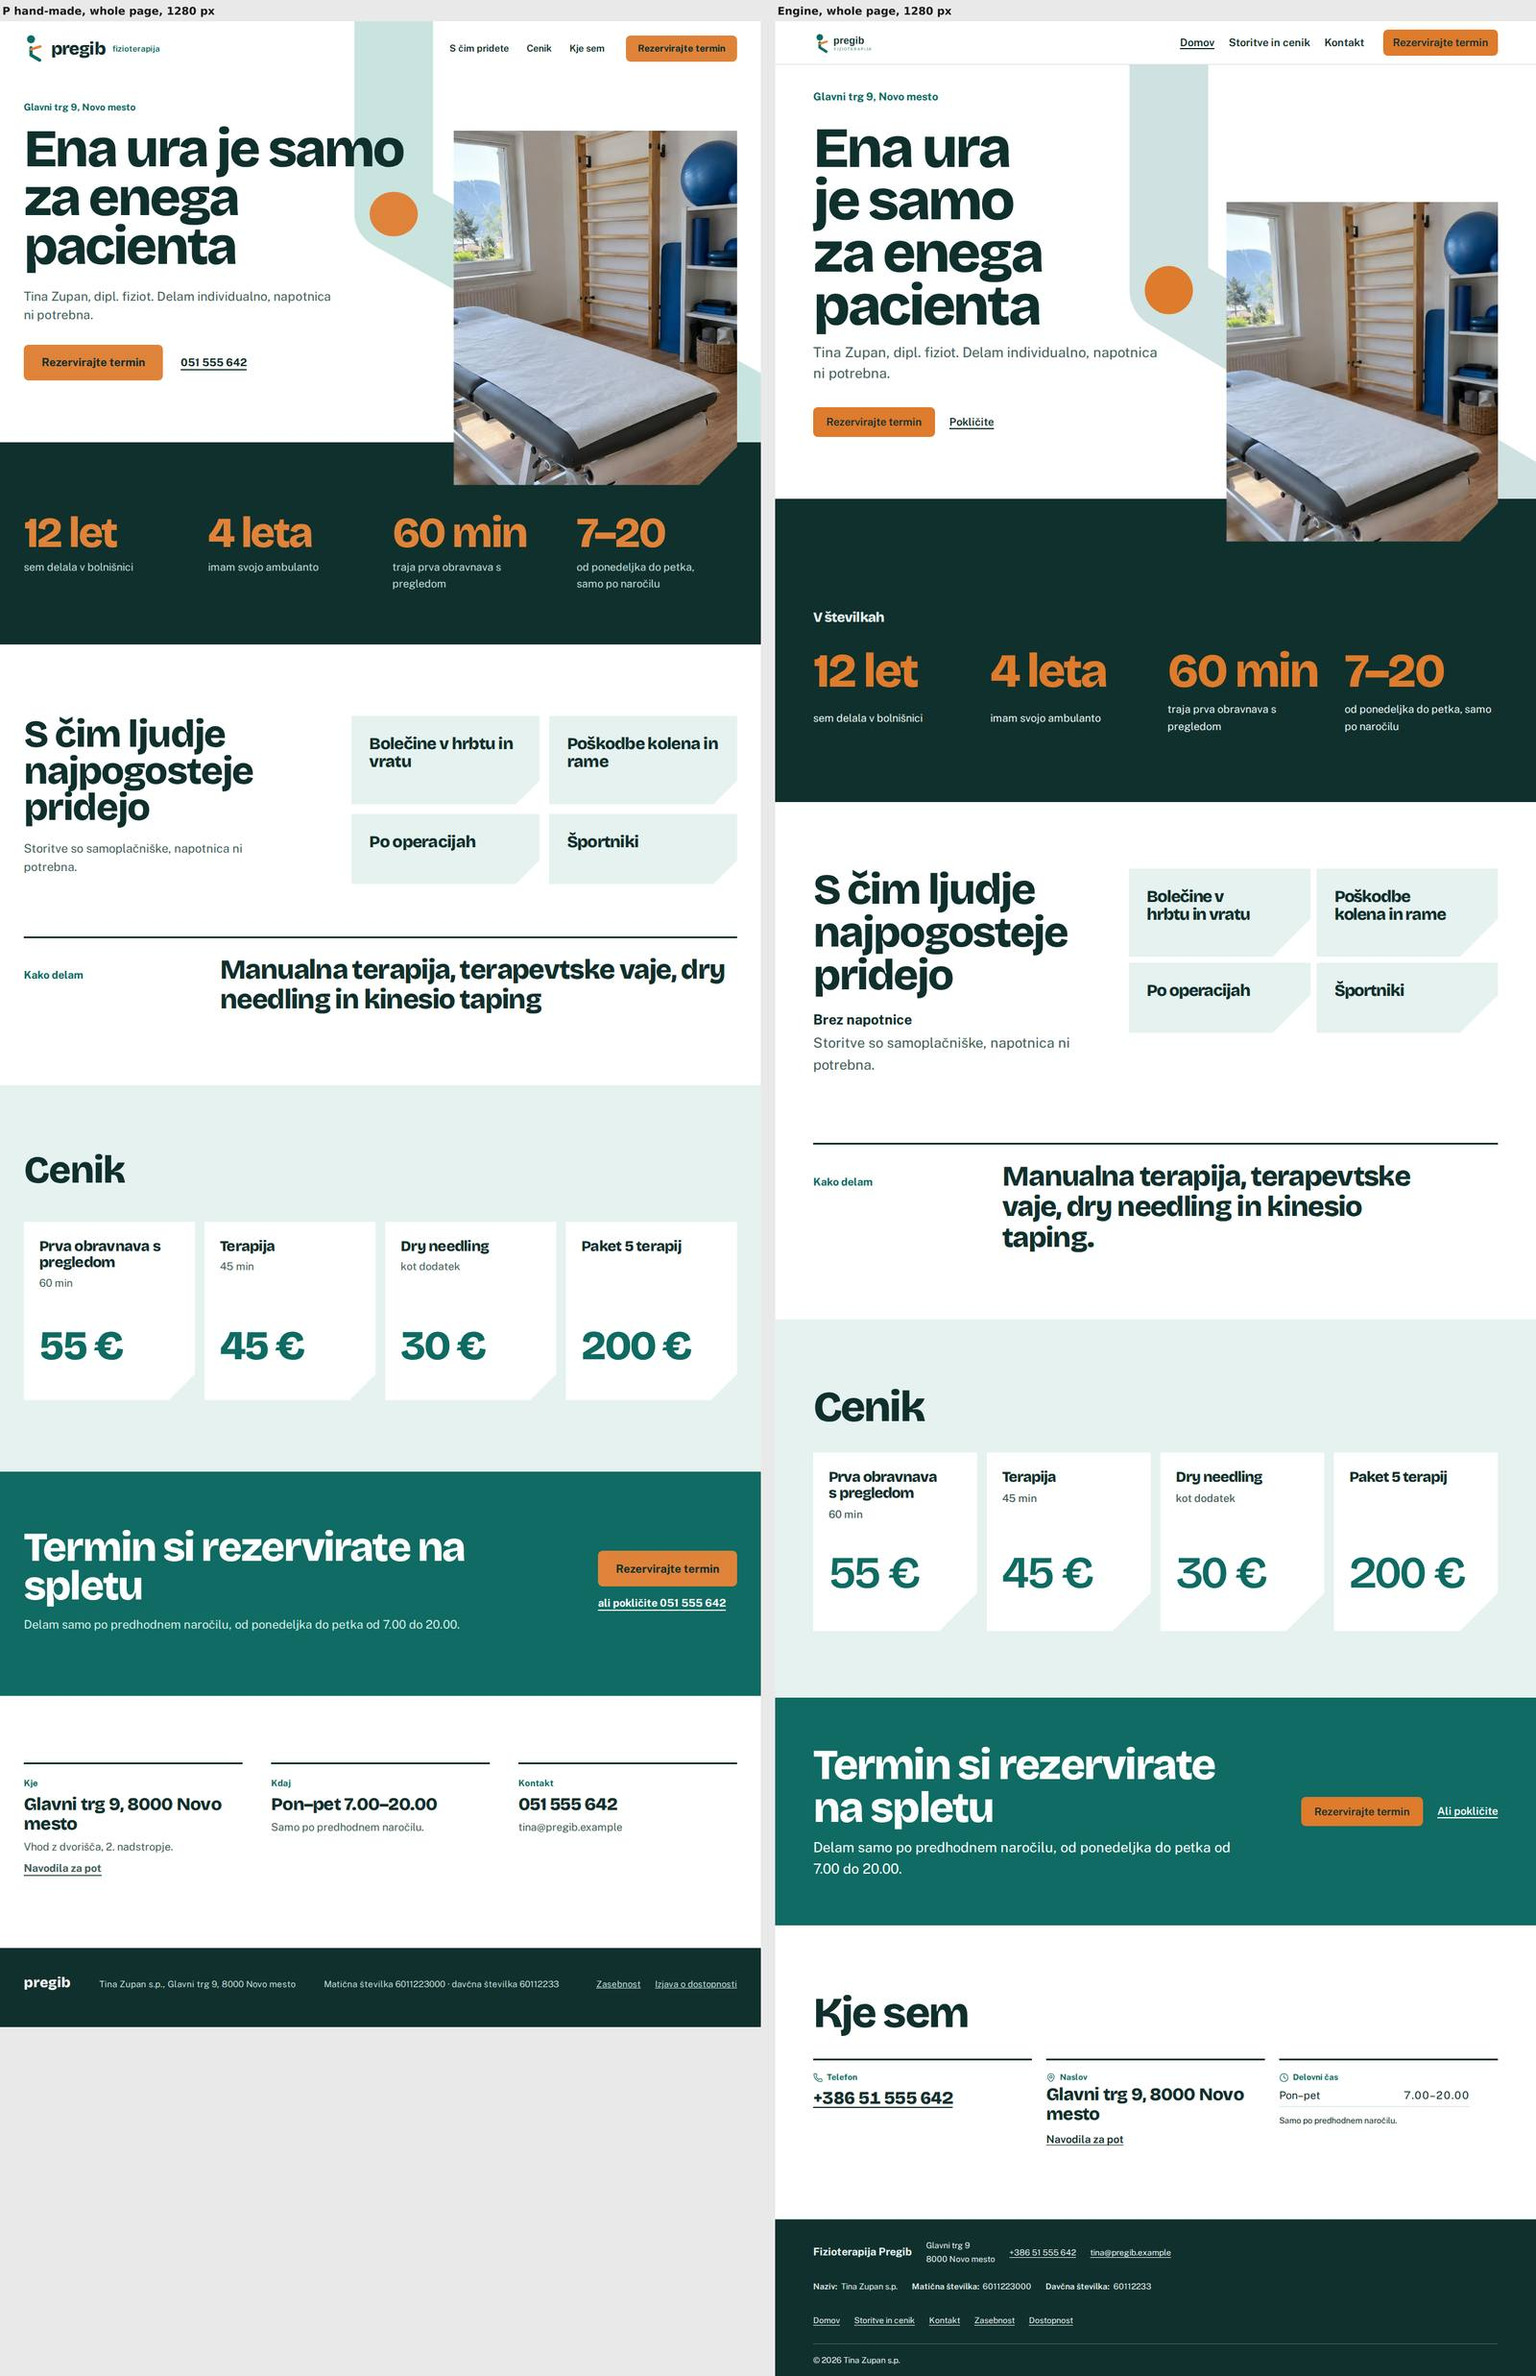
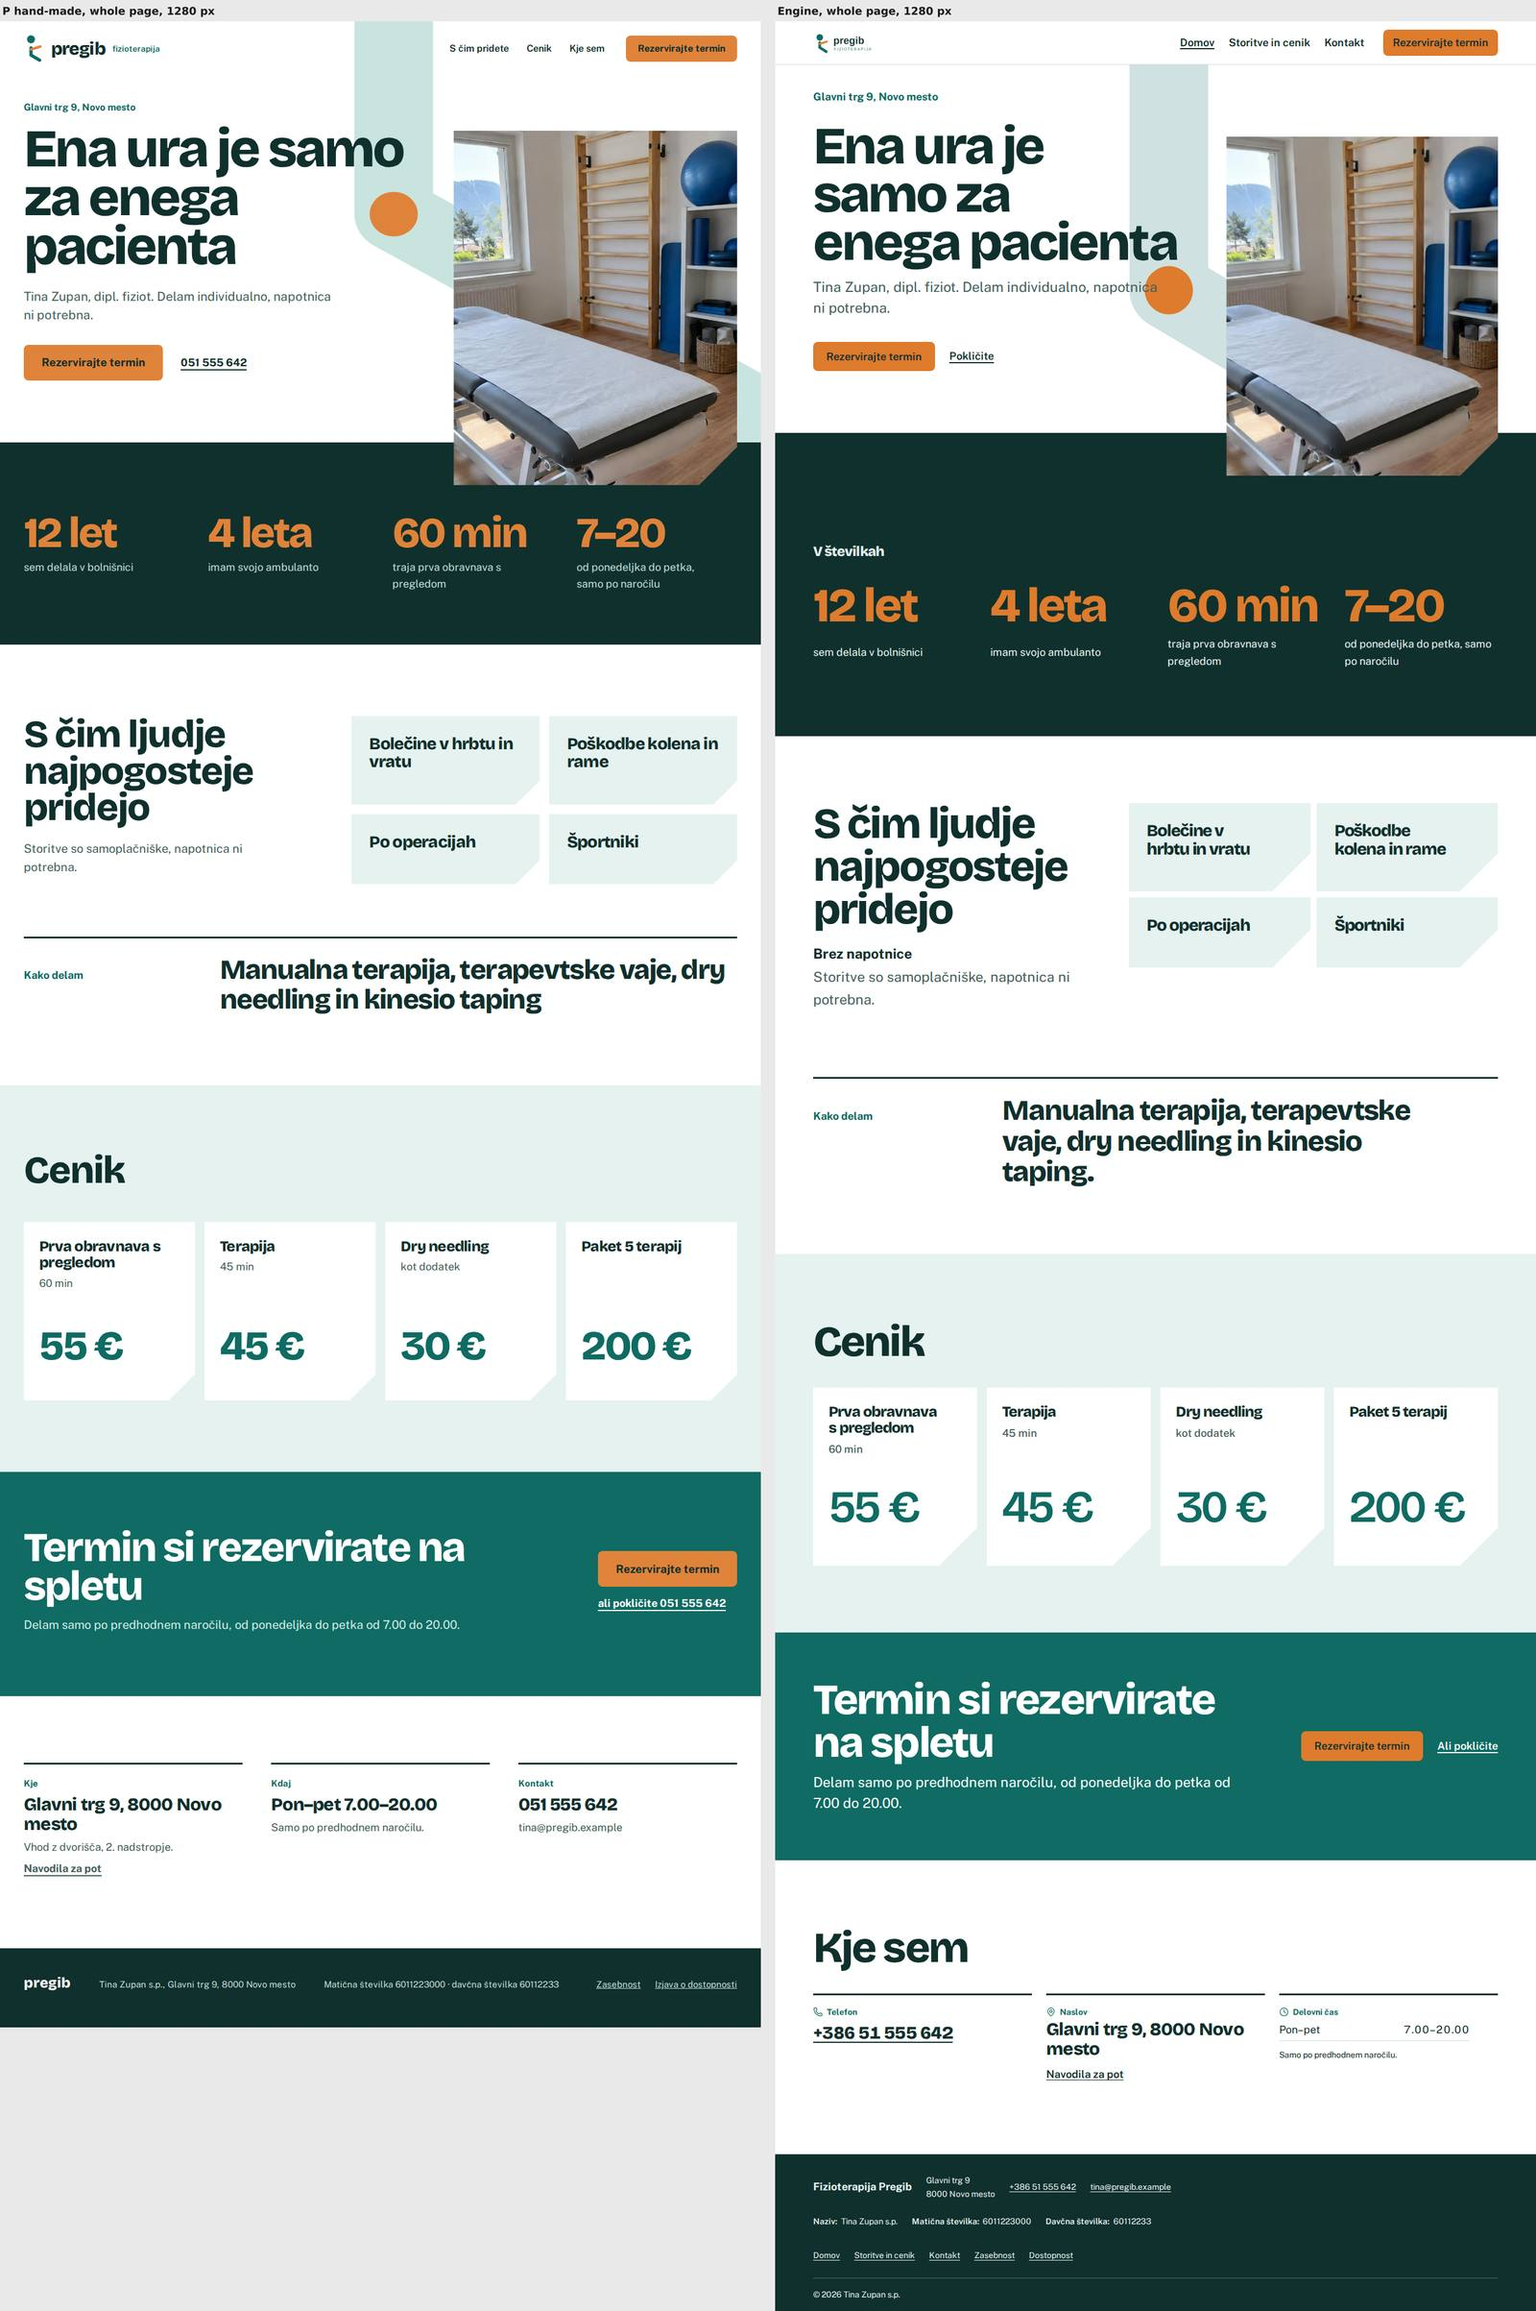
Pregib display tops out at 88 px, the hand-made page's size at 1280 px
Measured at 1280 px: 96 px in a 639 px column broke the headline into four lines where the template has
three. 88 px is still 4.9 times the body size.

Claude-Session: https://claude.ai/code/session_012buaHDYpjFud1FgmCzqGX5

diff --git a/packages/spec/src/directions.ts b/packages/spec/src/directions.ts
@@ -1048,7 +1048,7 @@ export const DIRECTIONS: Direction[] = [
     template: {
       id: "P",
       motif: "bend",
-      display: [44, 96],
+      display: [44, 88],
       h2: [36, 72],
       firstFor: ["physio"],
       minPhotos: 0,
